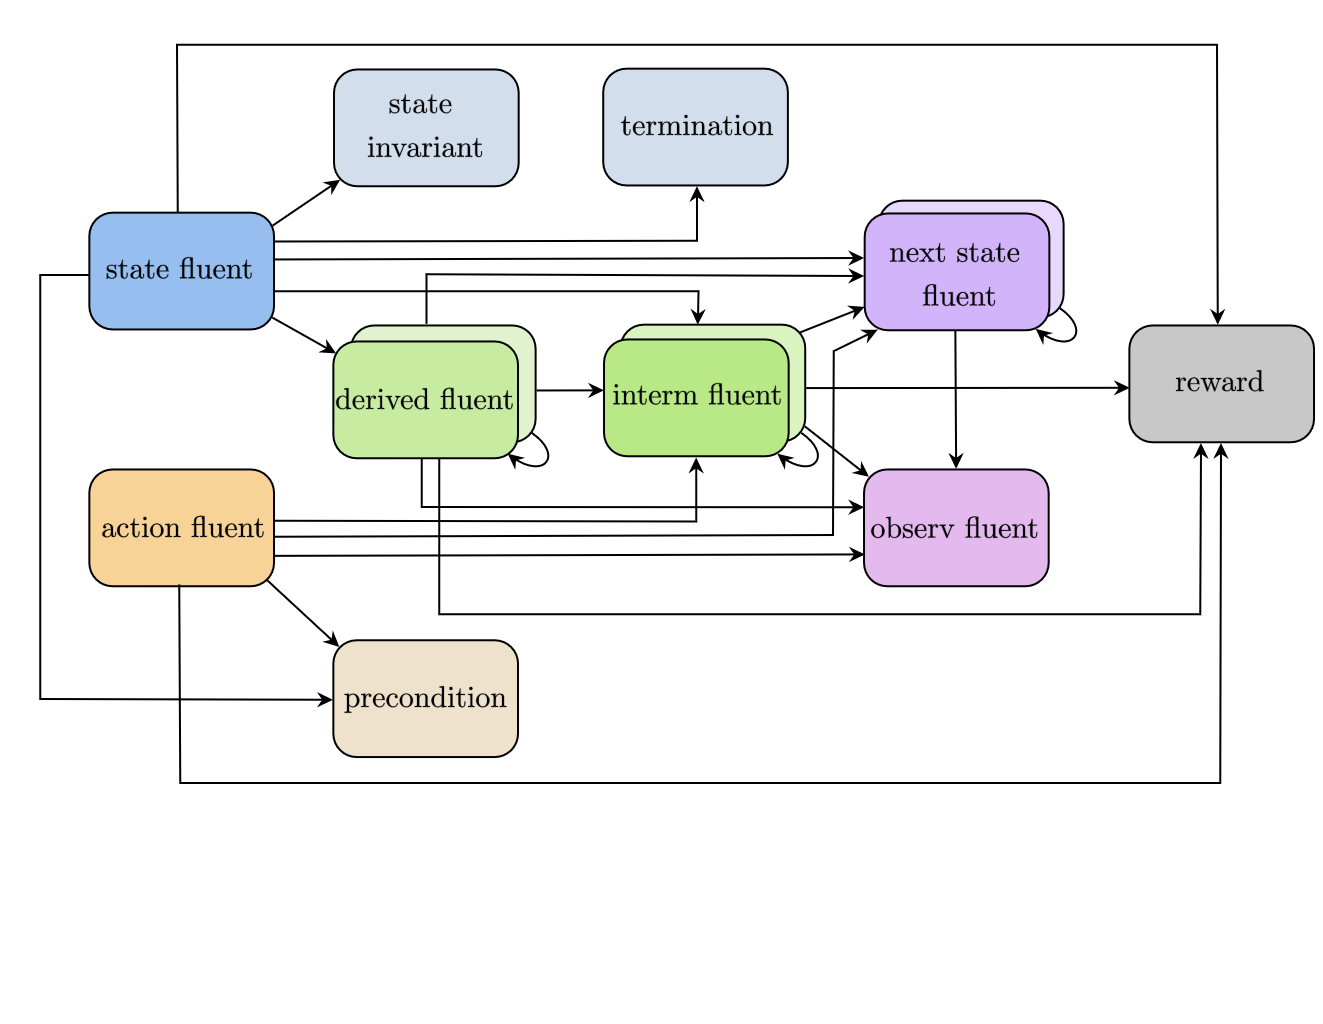
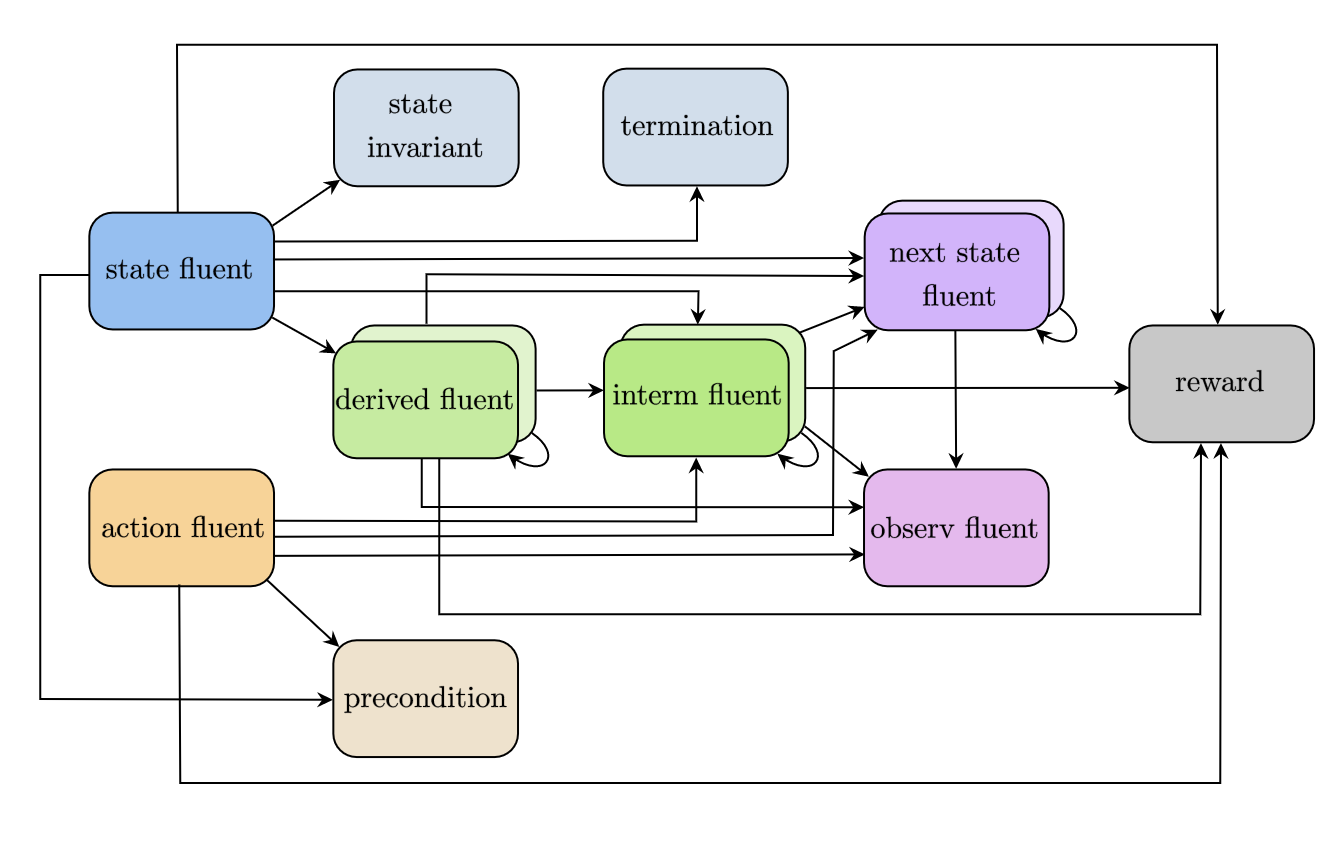
Updated dependency chart in readthedocs

Changed region(s): [[0.031, 0.0307, 1.0, 0.922], [0.124, 0.7376, 0.155, 0.7683]]

diff --git a/docs/rddl.rst b/docs/rddl.rst
@@ -170,7 +170,7 @@ This argument can take one of the following five values:
 Fluent variables in RDDL have a strict dependency structure, as outlined in the schematic below:
 
 .. image:: rddlgraph.png
-    :width: 400
+    :width: 500
     :alt: Dependencies between fluents in RDDL documents
  
 In summary:
